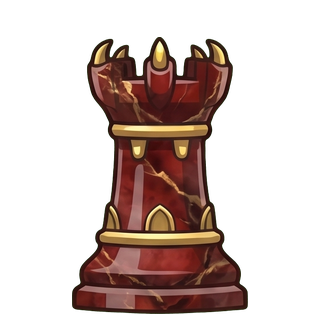
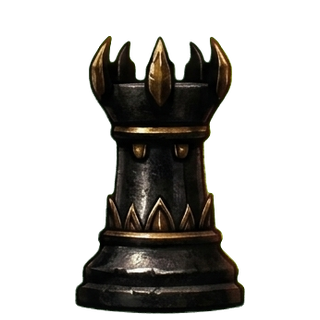
White and black marble, and the battlefield inside the frame
New piece set: white marble against black marble, both with gold. Spartan
helm on the king, gargoyle on the bishop, falcon for the knight, Greek
meander around every base -- one theme from the pieces down to the board.

Cut with the existing script, unchanged, which is the point of having had
it: connected components rather than a column grid, so the gargoyle's
wings and the falcon's beak survive; greenness thresholding rather than
un-mixing one sampled colour, so no fringe. Twelve pieces, no touch-ups.

The previous white-and-deep-red set moves to pecas_marmore_vermelho
rather than being deleted. Red reads better than black on a dark board --
that is visible with the pieces placed, not arguable -- but black is what
"white against black" means and what the board's palette answers to. A
taste call, so the alternative stays one directory away.

The board is now the interior of the MOLON LABE painting, enlarged past
its bronze frame: the frame would have landed inside the outer squares,
putting lettering where pieces stand. 7.55:1 between light and dark, the
best of the three attempts, and every piece of both colours reads.

What it gives up is honest to record: enlarged and veiled, the battle
stops reading AS a battle and becomes atmosphere. The 300-style board
(two phalanxes aligned to ranks 1 and 8, empty middle) told the story
better and measured worse. Kept as the other option.

Claude-Session: https://claude.ai/code/session_0125ABX3ZmRsYVmnaD6p5Pwb

diff --git a/assets/board/README.md b/assets/board/README.md
@@ -8,28 +8,24 @@ browser will actually load.
 
 `wK wQ wR wB wN wP` and the same with `b`. PNG with an alpha channel, 320x320.
 
-White marble with gold; deep red marble with gold, a bird of prey standing
-in for both knights -- Kestrel is a falcon, not a horse.
+White marble and black marble, both with gold. A Spartan helm crowns the
+king, a gargoyle perches on the bishop, and a falcon stands in for the
+knight -- Kestrel is a falcon, not a horse. Greek meander around every base.
 
 **One sheet, two colours of the same design** -- `aguia-fonte.png`, white on
-top and red below, twelve pieces in one 2814x1536 image. Every red piece
-stands at **1.02 of the white piece of the same type**, matched by type
-rather than by scaling the row as a unit: a flat, dark colour reads smaller
-than a light one of the same size, and the two percent buys that back. One
-ratio for the whole set this time -- the earlier two-sheet version needed
-per-piece overrides because its sides did not agree on some shapes; this one
-does.
+top and black below, twelve pieces in one image. Every dark piece stands at
+**1.02 of the white piece of the same type**, matched by type rather than by
+scaling the row as a unit: a flat, dark colour reads smaller than a light one
+of the same size, and the two percent buys that back.
 
 Within each colour nothing else is normalised. Relative heights are exactly
-as drawn, crests and finials included, which is why the rook stands well
-below the bishop. One shared baseline for all twelve.
+as drawn, crests and finials included. One shared baseline for all twelve.
 
-Heights as shipped, in pixels of the 320 canvas:
-
-| | K | Q | R | B | N | P |
-|---|---|---|---|---|---|---|
-| white | 308 | 287 | 272 | 301 | 258 | 204 |
-| red | 314 | 293 | 277 | 307 | 263 | 208 |
+The previous set -- white marble against DEEP RED marble -- is kept in
+`../pecas_marmore_vermelho`. Red was the more legible of the two on a dark
+board; black is the more coherent with "white against black" and with the
+board's own palette. That is a taste call, not a measurement, and the red set
+is there to go back to.
 
 ## Rebuilding them
 
@@ -38,12 +34,19 @@ python3 recorta_pecas.py aguia-fonte.png . 308
 ```
 
 The third argument is the white king's height in the 320 canvas; every other
-white piece follows the same ratio, and the red side follows per-type at
+white piece follows the same ratio, and the dark side follows per-type at
 1.02 of white (see the script's own docstring for why per-type, not per-row).
 
+Heights as cut, in pixels of the 320 canvas:
+
+| | K | Q | R | B | N | P |
+|---|---|---|---|---|---|---|
+| white | 308 | 287 | 273 | 299 | 259 | 204 |
+| black | 314 | 293 | 278 | 305 | 264 | 208 |
+
 Two things worth knowing before changing it. Pieces are isolated by
-**connected component**, not by a fixed column grid -- the bishop's small
-eagle finial and the knight's head both draw outside their own nominal
+**connected component**, not by a fixed column grid -- the bishop's gargoyle
+wings and the knight's beak both draw outside their own nominal
 column, and a hard grid cut either beheads one or lets a fragment of the
 neighbour bleed into it. And the background is removed by thresholding
 **greenness** (G minus the stronger of R/B) rather than by un-mixing against
